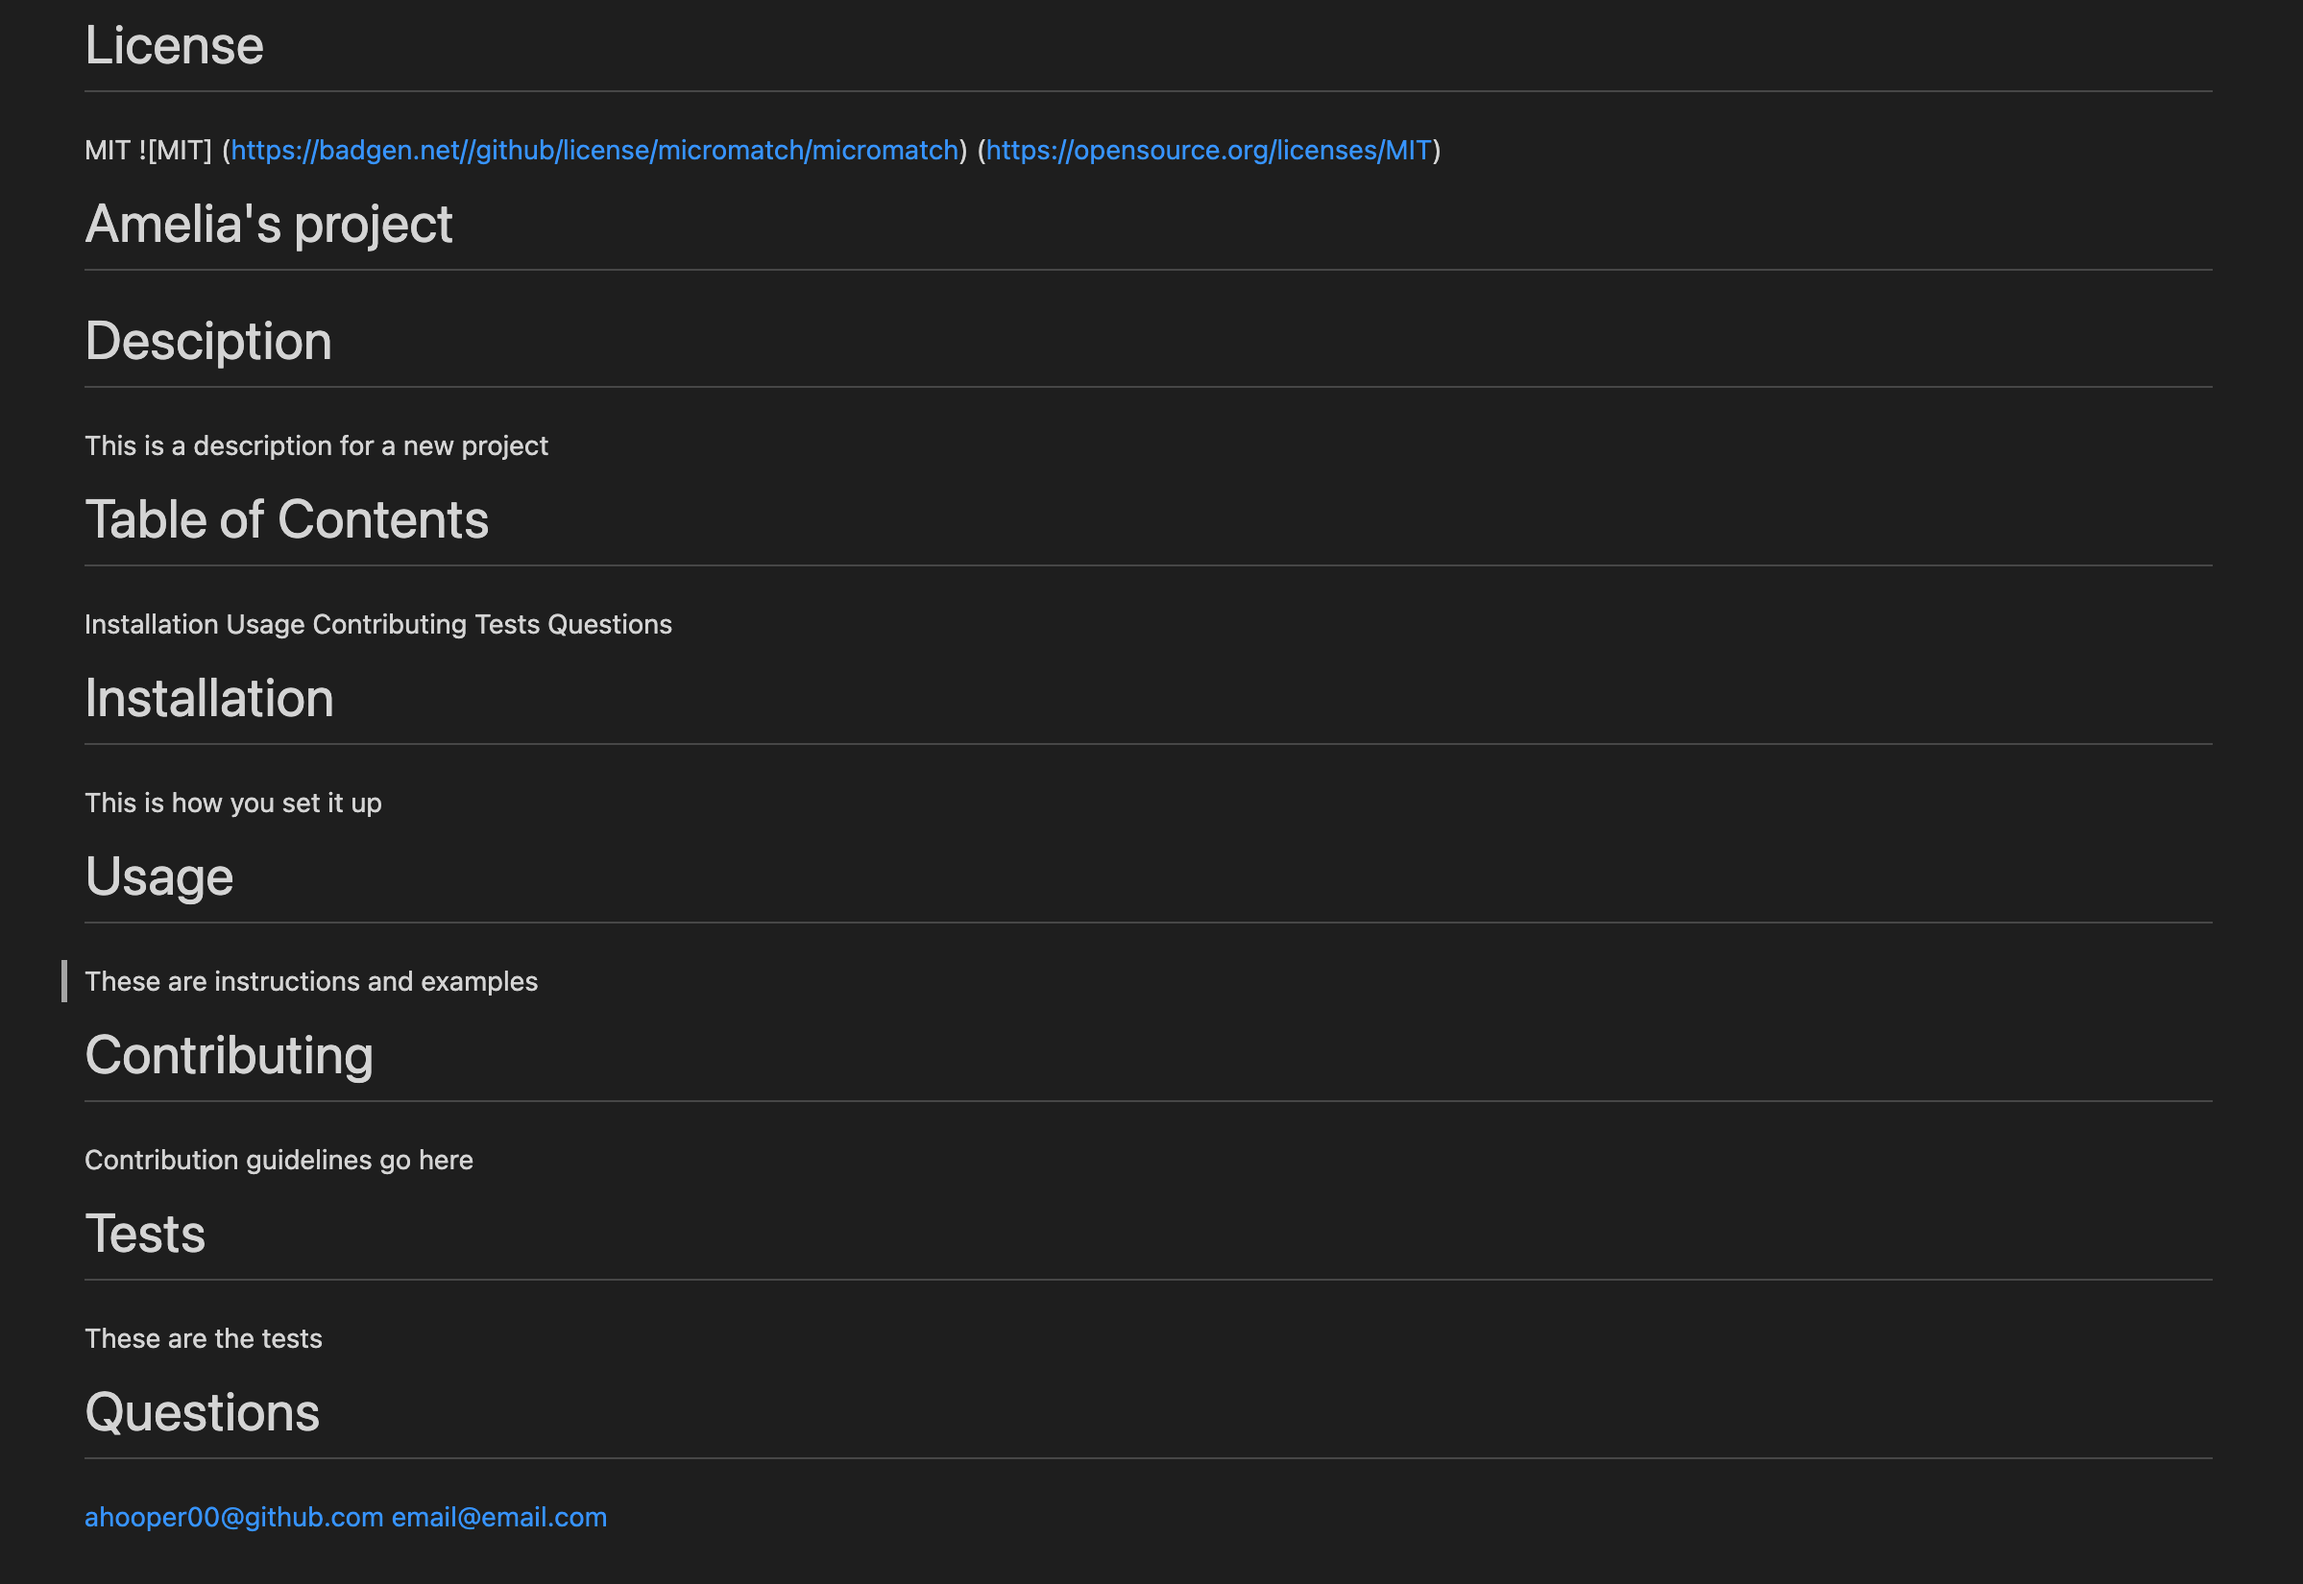
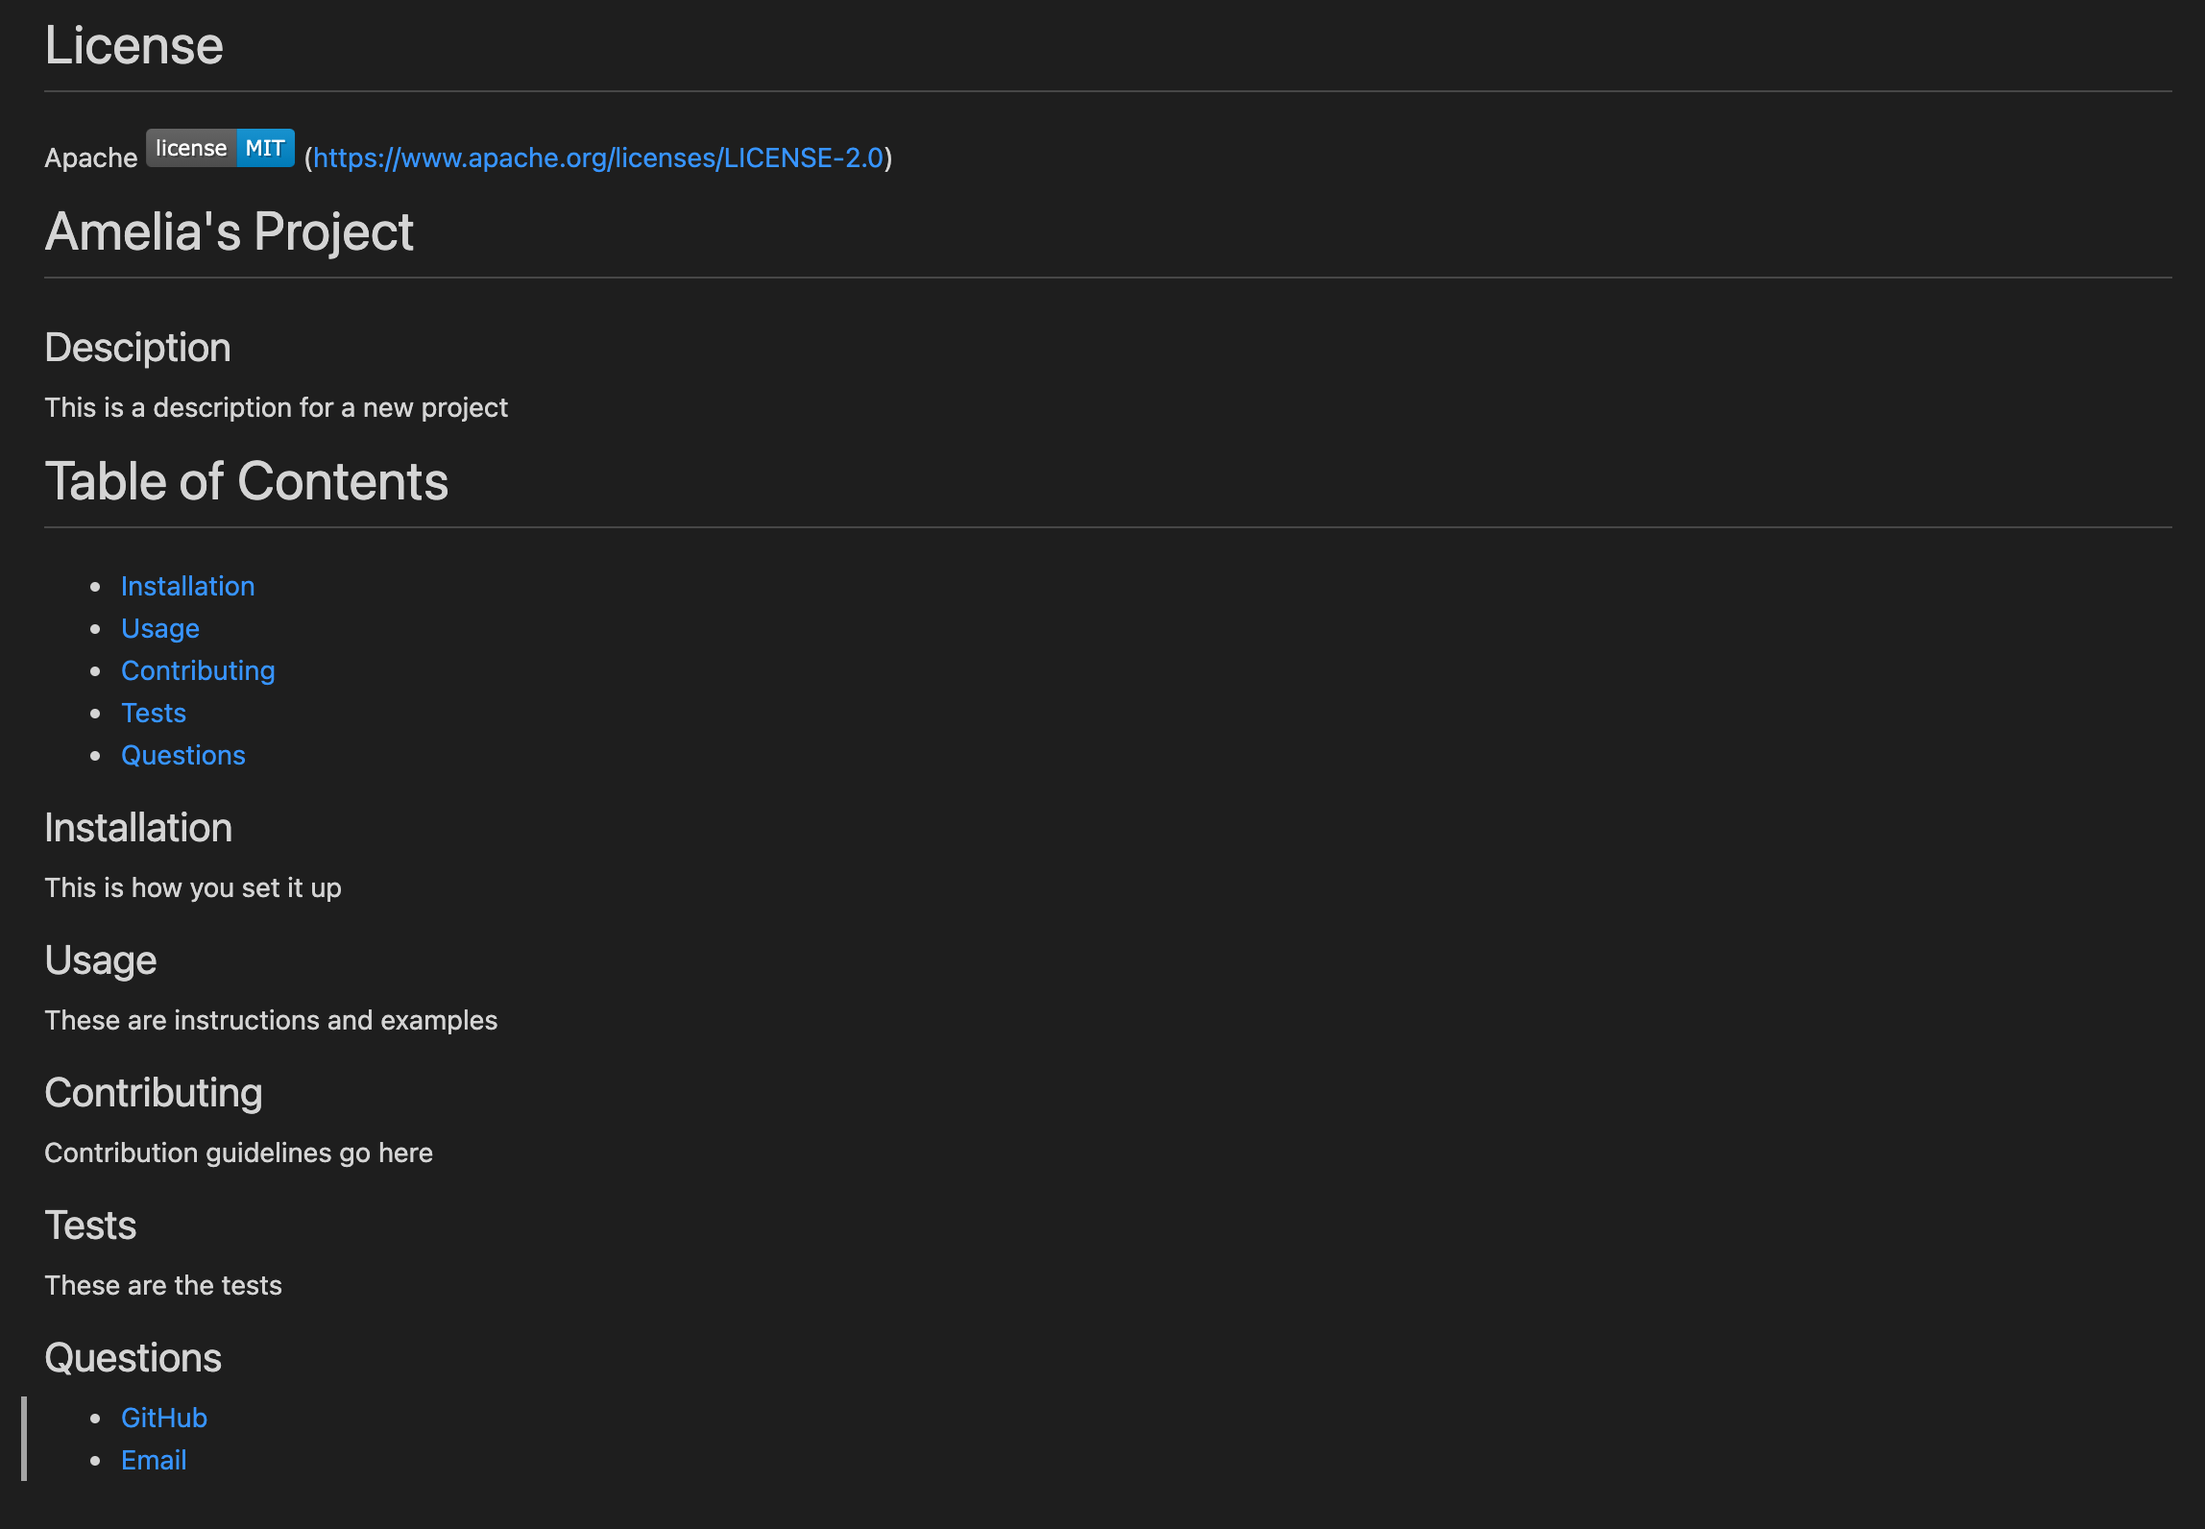
Updated TOC functionality, readme file example

Changed region(s): [[0.0, 0.0, 0.6185, 0.5848], [0.0309, 0.7079, 0.2783, 0.9849], [0.0, 0.6156, 0.2474, 0.6771]]

diff --git a/utils/generateMarkdown.js b/utils/generateMarkdown.js
@@ -32,21 +32,25 @@ ${renderLicenseBadge(license)}`;
 function generateMarkdown(data) {
   return `${renderLicenseSection(data.license)}
 # ${data.title}
-# Desciption 
+## Desciption 
 ${data.description}
 # Table of Contents
-Installation\nUsage\nContributing\nTests\nQuestions
-# Installation
+* [Installation](#Installation)
+* [Usage](#Usage)
+* [Contributing](#Contributing)
+* [Tests](#Tests)
+* [Questions](#Questions)
+## Installation
 ${data.installation}
-# Usage
+## Usage
 ${data.usage}
-# Contributing
+## Contributing
 ${data.contributing}
-# Tests
+## Tests
 ${data.tests}
-# Questions
-${data.github}
-${data.email}
+## Questions
+* [GitHub](${data.github})
+* [Email](${data.email})
 `;
 }
 module.exports = generateMarkdown;

diff --git a/index.js b/index.js
@@ -44,7 +44,7 @@ const questions = [
     {
         type: 'input',
         name: 'github',
-        message: 'Please enter your GitHub username',
+        message: 'Please enter your GitHub link',
     },
     {
         type: 'input',

diff --git a/README.md b/README.md
@@ -1,15 +1,31 @@
 # README Generator
 
-# Description
+## Desciption 
 This assignment required a README file to be generated using node.js.
 The command-line application takes in some required input to generate a professional README file for a project.
 When the user opens the application in the terminal, a series of prompts display for the user to answer.
 The input requirements include a project title, description, table of contents, installation instructions, usage information, contribution guidelines, and test instructions.
 The users GitHub and email address are also required and are included under a 'Questions' section.
 The selected license is displayed at the top of the page with the license badge and a link to the license website.
+# Table of Contents
+* [Installation](#Installation)
+* [Usage](#Usage)
+* [Contributing](#Contributing)
+* [Questions](#Questions)
+## Installation
+To set up this application, run npm i to install dependencies
+```
+npm i
+```
+## Usage
+Once dependencies are installed, run node . to begin the application in the command line
+```
+node .
+```
+## Contributing
+To contribute to the project, simply perform a git clone of the repository. For any changes made, a pull request is required, and I will determine whether to merge the changes or not.
+## Questions
+* [GitHub-repo](https://github.com/ahooper00/readme-generator)
+* [Email](ahooper97@gmail.com)
 
-Screenshot of example application
-
-![readme-screenshot](screenshot.png)
-
-Link to github repository: https://github.com/ahooper00/readme-generator
+![screenshot](screenshot.png)

diff --git a/README.example.md b/README.example.md
@@ -1,0 +1,23 @@
+# License 
+Apache 
+![Apache](https://badgen.net//github/license/micromatch/micromatch) (https://www.apache.org/licenses/LICENSE-2.0)
+# Amelia's Project
+## Desciption 
+This is a description for a new project
+# Table of Contents
+* [Installation](#Installation)
+* [Usage](#Usage)
+* [Contributing](#Contributing)
+* [Tests](#Tests)
+* [Questions](#Questions)
+## Installation
+This is how you set it up
+## Usage
+These are instructions and examples
+## Contributing
+Contribution guidelines go here
+## Tests
+These are the tests
+## Questions
+* [GitHub](ahooper00@github.com)
+* [Email](ahooper97@gmail.com)
